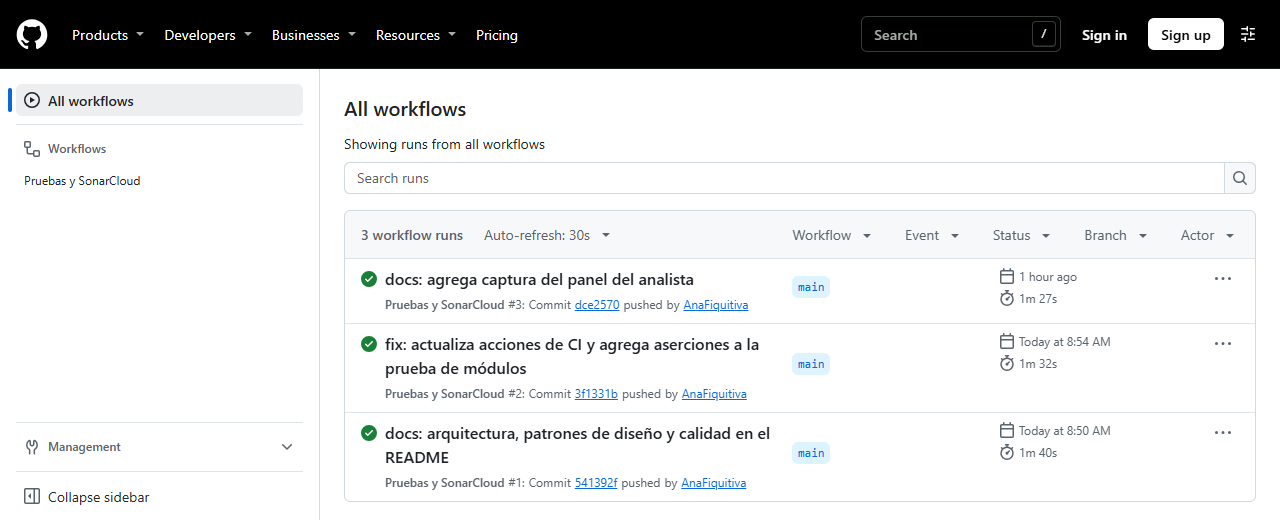
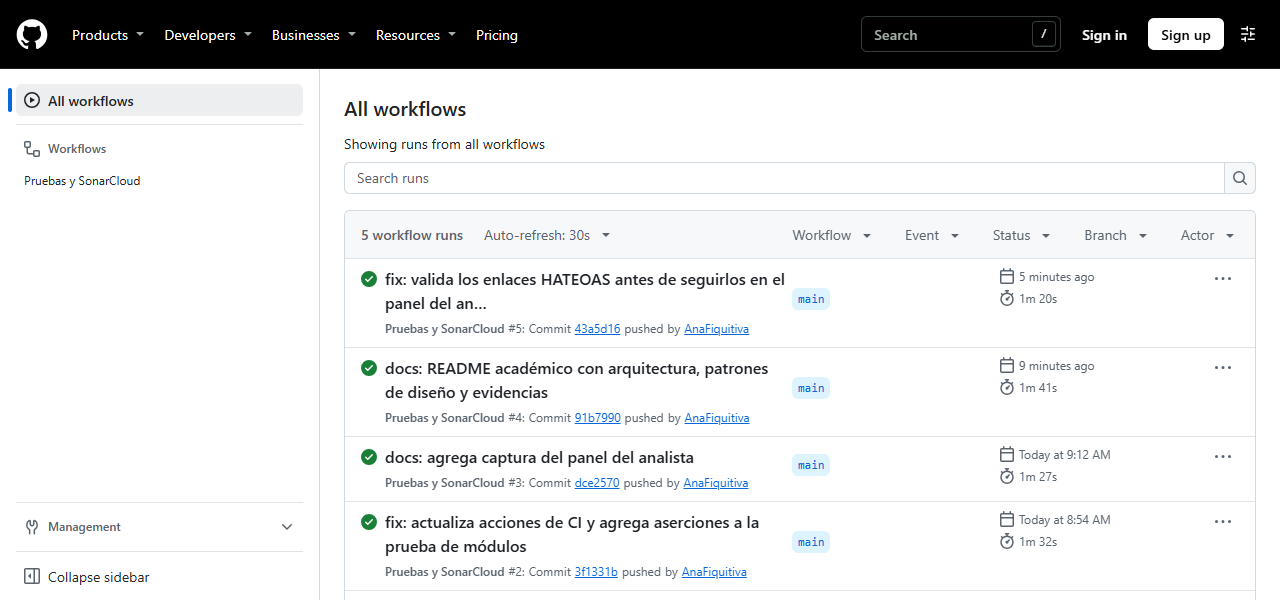
docs: actualiza evidencias de SonarCloud y GitHub Actions
Capturas del análisis del commit 43a5d16 (Quality Gate aprobado, cobertura 98,4 %) y del historial de CI. Registra en el README la vulnerabilidad corregida en analista.js.

diff --git a/README.md b/README.md
@@ -971,6 +971,7 @@ mvn verify      # pruebas + cobertura; falla si la cobertura baja del 90 %
 - **Integración continua:** [`.github/workflows/sonarcloud.yml`](.github/workflows/sonarcloud.yml) ejecuta `mvn verify` y envía el análisis a SonarCloud en cada *push* y *pull request*. La configuración está en [`sonar-project.properties`](sonar-project.properties).
 - **Build sin advertencias:** el agente de Mockito/Byte Buddy se carga con `-javaagent` ([`pom.xml`](backend/pom.xml#L160)), no dinámicamente, algo que el JDK 21 advierte. El único `WARN` del log es intencional: la prueba de *path traversal* con `../secreto.txt`.
 - **Hallazgos corregidos del primer análisis de SonarCloud:** promesas sin manejar en `analista.js` y `login.js`, una expresión regular con riesgo de ReDoS en `registro.js` y el contenedor que corría como `root`.
+- **Hallazgo corregido al agregar HATEOAS:** SonarCloud detectó un posible *request forgery* (reglas `S5144` y `S8476`) porque el panel seguía los enlaces de la API sin validarlos. Ahora [`rutaDeLaApi`](frontend/js/analista.js) solo permite enlaces del mismo origen bajo `/api`, y el Quality Gate volvió a quedar en **Passed** (commit `43a5d16`).
 
 ---
 
@@ -1047,7 +1048,7 @@ Cada insignia del encabezado tiene su captura de respaldo:
 |---|---|---|---|
 | ![Pruebas y SonarCloud](https://github.com/AnaFiquitiva/kata-practicing/actions/workflows/sonarcloud.yml/badge.svg) | Que el workflow de CI (pruebas, cobertura y análisis) termine bien | Passing | [Evidencia E8](#e8-github-actions) |
 | ![Quality Gate](https://sonarcloud.io/api/project_badges/measure?project=AnaFiquitiva_kata-practicing&metric=alert_status) | Que el código cumpla el umbral de calidad de SonarCloud | Passed | [Evidencia E9](#e9-sonarcloud), recuadro "Quality gate" |
-| ![Coverage](https://sonarcloud.io/api/project_badges/measure?project=AnaFiquitiva_kata-practicing&metric=coverage) | Porcentaje de código ejecutado por las pruebas | 100 % en Sonar y 99 % en JaCoCo local | [Evidencia E9](#e9-sonarcloud), recuadro "Coverage", y [Evidencia E10](#e10-jacoco) |
+| ![Coverage](https://sonarcloud.io/api/project_badges/measure?project=AnaFiquitiva_kata-practicing&metric=coverage) | Porcentaje de código ejecutado por las pruebas | 98,4 % en SonarCloud (líneas) y 99 % en JaCoCo (instrucciones) | [Evidencia E9](#e9-sonarcloud), recuadro "Coverage", y [Evidencia E10](#e10-jacoco) |
 | ![Bugs](https://sonarcloud.io/api/project_badges/measure?project=AnaFiquitiva_kata-practicing&metric=bugs) | Errores de código detectados por el análisis estático | 0 | [Evidencia E9](#e9-sonarcloud), recuadro "Reliability" (0 incidencias) |
 
 #### E8. GitHub Actions
@@ -1058,7 +1059,7 @@ Ejecuciones del workflow "Pruebas y SonarCloud" en `main`, todas en verde. Cada 
 
 #### E9. SonarCloud
 
-Quality Gate **Passed**. Security, Reliability (bugs) y Maintainability con **0 incidencias** y calificación **A**, cobertura del **100 %** y **0 %** de duplicación. [Ver en SonarCloud](https://sonarcloud.io/summary/overall?id=AnaFiquitiva_kata-practicing).
+Quality Gate **Passed**. Security, Reliability (bugs) y Maintainability con **0 incidencias** y calificación **A**, cobertura del **98,4 %** y **0 %** de duplicación, analizando el commit `43a5d16`. [Ver en SonarCloud](https://sonarcloud.io/summary/overall?id=AnaFiquitiva_kata-practicing).
 
 ![SonarCloud](docs/capturas/08-sonarcloud.png)
 
